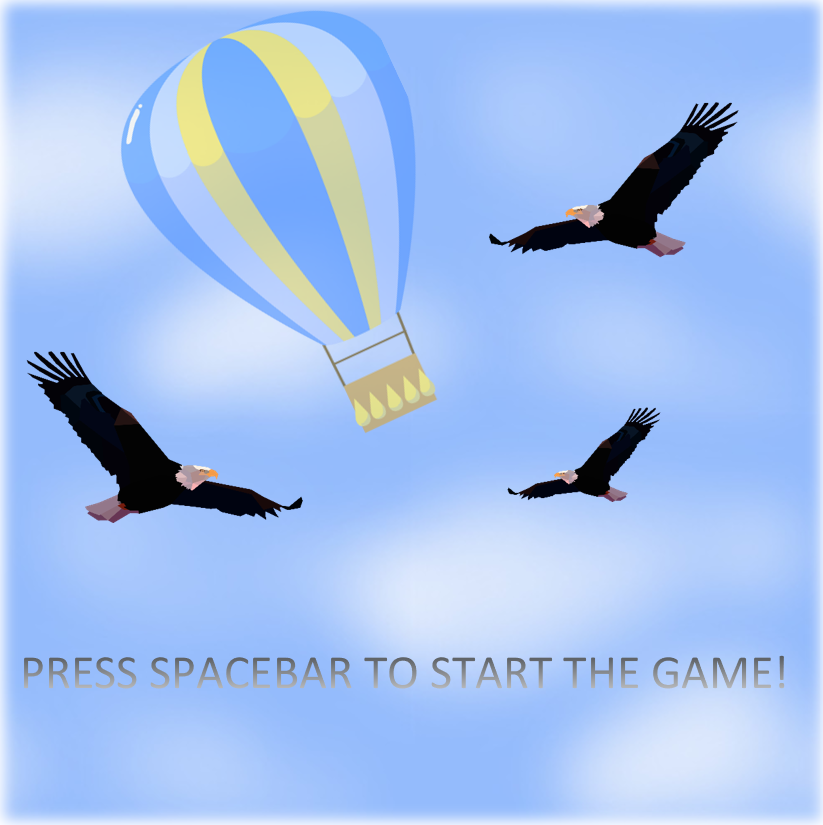
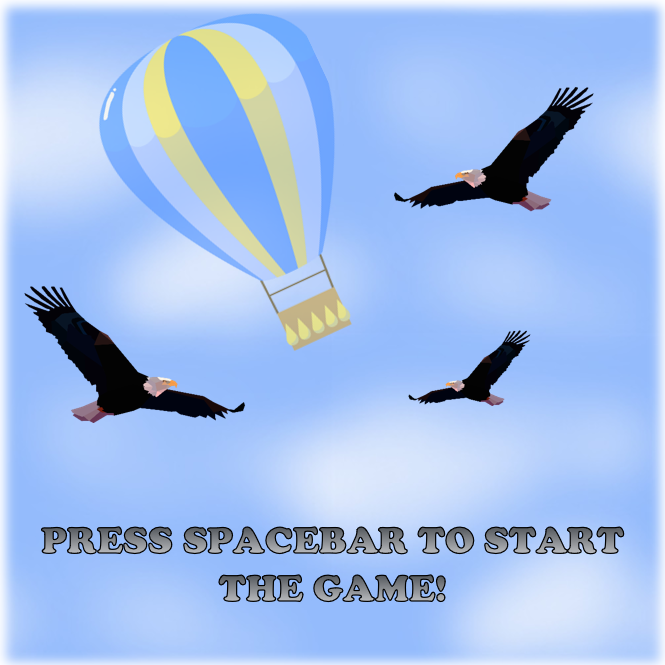
Game Over

diff --git a/UM BALAUM/game_screen.py b/UM BALAUM/game_screen.py
@@ -1,7 +1,7 @@
 import pygame
 from reference import load_assets, IMAGE, MUSIC, LIFE_FONT, SCORE_FONT, LIVES_FONT, EAGLE_SOUND, BOOM_SOUND, PLAYER_SHEET
 from sprites import Covid, Balao, Life, Eagle1, Eagle2, Gel, load_spritesheet, Player
-from data import WIDTH, HEIGHT, FPS
+from data import WIDTH, HEIGHT, FPS, OVER
 
 # --- Cria um grupo de sprites geral e para cada obstáculo
 def game_screen(window):
@@ -137,7 +137,7 @@ def game_screen(window):
                     state = EXPLODING
                     keys_down = {}
                     explosion_tick = pygame.time.get_ticks()
-                    explosion_duration = player.frame_ticks * len(player.animation) + 500
+                    explosion_duration = player.frame_ticks * len(player.animation) + 450
             
             col_2 = pygame.sprite.spritecollide(balao, covides, True, pygame.sprite.collide_mask)
             for covid in col_2:
@@ -164,7 +164,8 @@ def game_screen(window):
             now = pygame.time.get_ticks()
             if now - explosion_tick > explosion_duration:
                 if lives == 0:
-                    state = DONE
+                    state = OVER
+                    return state
                 else:
                     state = PLAYING
                     assets[MUSIC].play()

diff --git a/UM BALAUM/final_screen.py b/UM BALAUM/final_screen.py
@@ -2,12 +2,12 @@ import pygame
 import os
 from data import WIDTH, HEIGHT, IMG_DIR, FPS, INIT, GAME, QUIT
 
-def init_screen(screen):
+def final_screen(screen):
 
     clock = pygame.time.Clock()
 
-    init_screen = pygame.image.load(os.path.join(IMG_DIR, 'sky_capa.png')).convert()
-    init_screen = pygame.transform.scale(init_screen, (WIDTH, HEIGHT))
+    final_screen = pygame.image.load(os.path.join(IMG_DIR, 'sky_fim.png')).convert()
+    final_screen = pygame.transform.scale(final_screen, (WIDTH, HEIGHT))
 
     start = True
     while start:
@@ -25,14 +25,8 @@ def init_screen(screen):
                     state = GAME
                     start = False
         
-        screen.blit(init_screen, (0,0))
+        screen.blit(final_screen, (0,0))
 
         pygame.display.flip()
     
     return state
-
-
-
-
-
-

diff --git a/UM BALAUM/code.py b/UM BALAUM/code.py
@@ -2,9 +2,10 @@
 # ----- Importa e inicia pacotes
 import pygame
 import random
-from data import WIDTH, HEIGHT, INIT, GAME, QUIT
+from data import WIDTH, HEIGHT, INIT, GAME, QUIT, OVER
 from init_screen import init_screen
 from game_screen import game_screen
+from final_screen import final_screen
 
 pygame.init()
 pygame.mixer.init()
@@ -19,6 +20,8 @@ while state != QUIT:
         state = init_screen(window)
     elif state == GAME:
         state = game_screen(window)
+    elif state == OVER:
+        state = final_screen(window)
     else:
         state = QUIT
  

diff --git a/UM BALAUM/data.py b/UM BALAUM/data.py
@@ -24,5 +24,6 @@ GEL_HEIGHT = 20
 INIT = 0
 GAME = 1
 QUIT = 2
+OVER = 3
 
 STILL = 0

diff --git a/README.md b/README.md
@@ -1,2 +1,23 @@
-Integrantes do grupo: Arthur Pansini e Caio Ribeiro;
-Proposta inicial do projeto final de Dessoft: paraquedista que salta de um avião e tenta ficar o maior tempo possível caindo com seu paraquedas enquanto diversos obstáculos aéreos o atrapalha a chegar ao chão;
+Título do projeto: Um Balaum
+
+Integrantes do grupo: 
+Arthur Pansini;
+Caio Ribeiro.
+
+Link do vídeo explicativo sobre o projeto no Youtube: 
+
+Detalhamento do jogo:
+
+------ Contexto ------
+
+Proposta inicial do projeto final de Dessoft: paraquedista que salta de um avião e tenta ficar o maior tempo possível caindo com seu paraquedas enquanto diversos obstáculos aéreos o atrapalha a chegar ao chão.
+
+------ Objetivo ------
+
+
+
+
+----------------------
+
+Como rodar o código: tendo-se as dependências necessárias previamente instaladas, como o pygame, para conseguir rodar o código no seu PC, abra a pasta UM BALAUM e, dentro dela, execute o arquivo chamado de "code.py".
+
